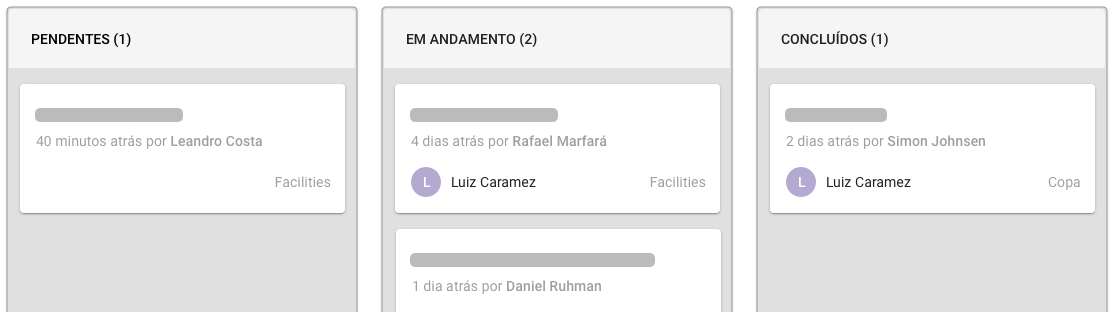
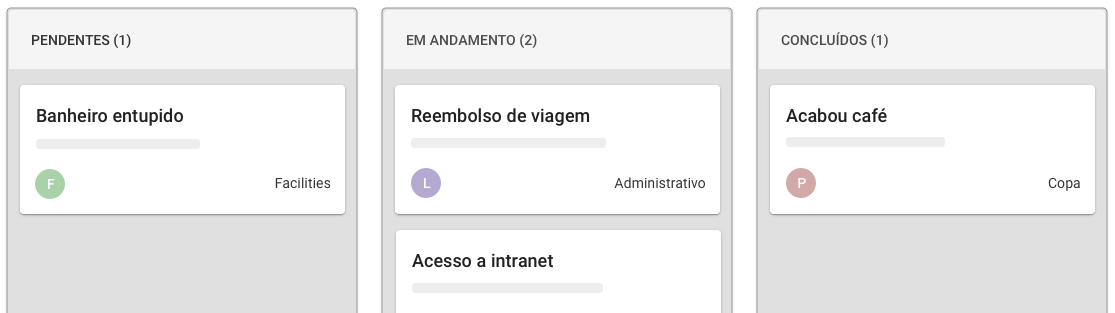
Updated text

diff --git a/empresas.html b/empresas.html
@@ -19,7 +19,7 @@ layout: default
           <h1 class="font-title-header font-title text-shadow">
             Gerencie de forma eficiente as <span class="text--highlight">demandas</span> do seu <span class="text--highlight">escritório</span>
             <p class="font--lg text-shadow mt-4">
-              Facilities managers agora tem uma plataforma para atender suas necessidades
+              Plataforma desenhada para facilities e office managers
             </p>
           </h1>
         </div>
@@ -37,14 +37,11 @@ layout: default
           <p class="pt-4 px-1 font--xl font-title">
             Acompanhe as demandas em um <b>único lugar</b>
           </p>
-          <p class="pb-3 px-1 font--md font-title">
-            Banheiro entupiu? Café acabou? Precisa de um mouse novo?
-          </p>
         </div>
       </div>
 
-      <div class="row mt-2 justify-content-center">
-        <div class="col-12 col-sm-12 col-lg-9 text-center">
+      <div class="row mt-4 justify-content-center">
+        <div class="col-12 col-sm-12 col-lg-10 text-center">
           <img src="/assets/images/tickets.png" width="100%">
         </div>
       </div>
@@ -52,10 +49,8 @@ layout: default
       <div class="row pt-5 justify-content-center">
         <div class="col-lg-9 text-center">
           <p class="pb-2 px-1 font--md font-title">
-            Qualquer um no escritório pode facilmente notificar o facilities manager
-            de uma nova solicitação, seja via link web, chatbot ou QR Code.
-            Não fique com a dor de cabeça de gerir planilhas ou sistemas
-            que não te servem mais.
+            Seus funcionários podem facilmente abrir uma solicitação seja, via link web, chatbot ou QR Code.
+            Chega de dor de cabeça com planilhas ou sistemas que não te servem mais.
           </p>
         </div>
       </div>
@@ -68,13 +63,13 @@ layout: default
         <section class="col-12 col-sm-12 col-md col-lg mt-4 text-center">
           <img src="/assets/images/group1.png" class="col-5 col-sm-5 col-md-5 col-lg-5">
           <div class="mt-2 text-center">
-            <h1 class="pt-3 pb-1 font--lg font-title"><b>Controle</b> <br>das necessidades</h1>
+            <h1 class="pt-3 pb-1 font--lg font-title"><b>Integração</b> <br>com ferramentas</h1>
           </div>
         </section>
         <section class="col-12 col-sm-12 col-md col-lg mt-4 text-center">
           <img src="/assets/images/group2.png" class="col-5 col-sm-5 col-md-5 col-lg-5">
           <div class="mt-2 text-center">
-            <h1 class="pt-3 pb-1 font--lg font-title"><b>Catálogo</b> <br>de serviços</h1>
+            <h1 class="pt-3 pb-1 font--lg font-title"><b>Categoria</b> <br>de serviços</h1>
           </div>
         </section>
         <section class="col-12 col-sm-12 col-md col-lg mt-4 text-center">
@@ -92,12 +87,10 @@ layout: default
       <div class="row pt-2 justify-content-center">
         <div class="col-lg-9 text-center">
           <p class="pt-4 px-1 font--xl font-title">
-            Solicite uma demonstração
+            Começe agora!
           </p>
-          <p class="px-1 pb-5 font--md font-title">
-            Sem custo e sem compromisso.
-            <br>
-            Envie um e-mail para
+          <p class="px-1 pb-5 font--lg font-title">
+            Escreva para
             <a href="mailto:quero@lobby.tech" target="_blank">
               <b>quero@lobby.tech</b>
             </a>

diff --git a/index.html b/index.html
@@ -83,7 +83,7 @@ layout: default
           <p class="pt-4 px-1 font--xl font-title">
             Começe agora!
           </p>
-          <p class="px-1 pb-3 font--lg font-title">
+          <p class="px-1 pb-5 font--lg font-title">
             Escreva para
             <a href="mailto:quero@lobby.tech" target="_blank">
               <b>quero@lobby.tech</b>
